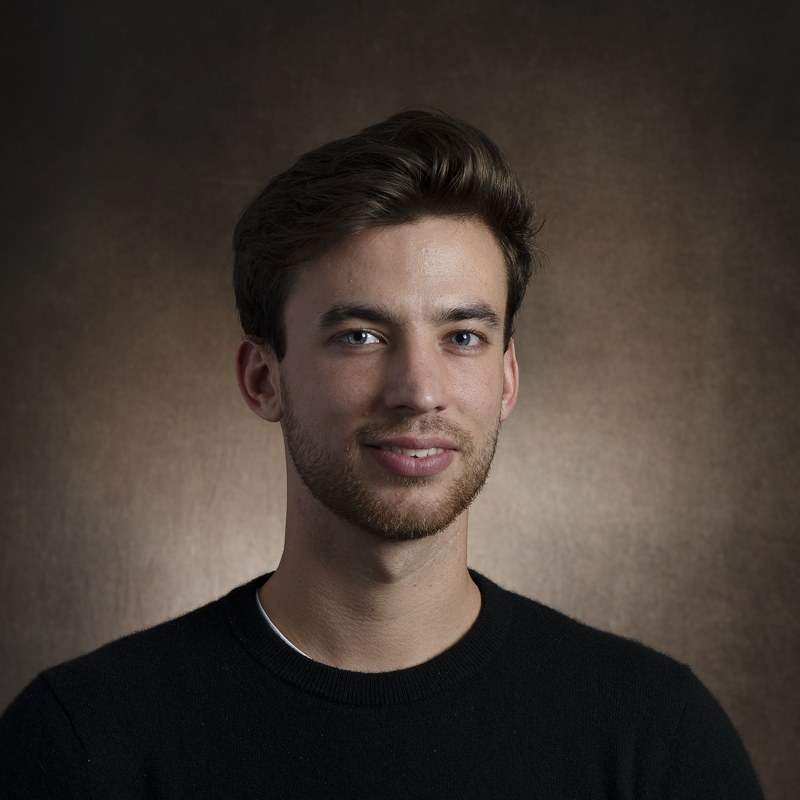
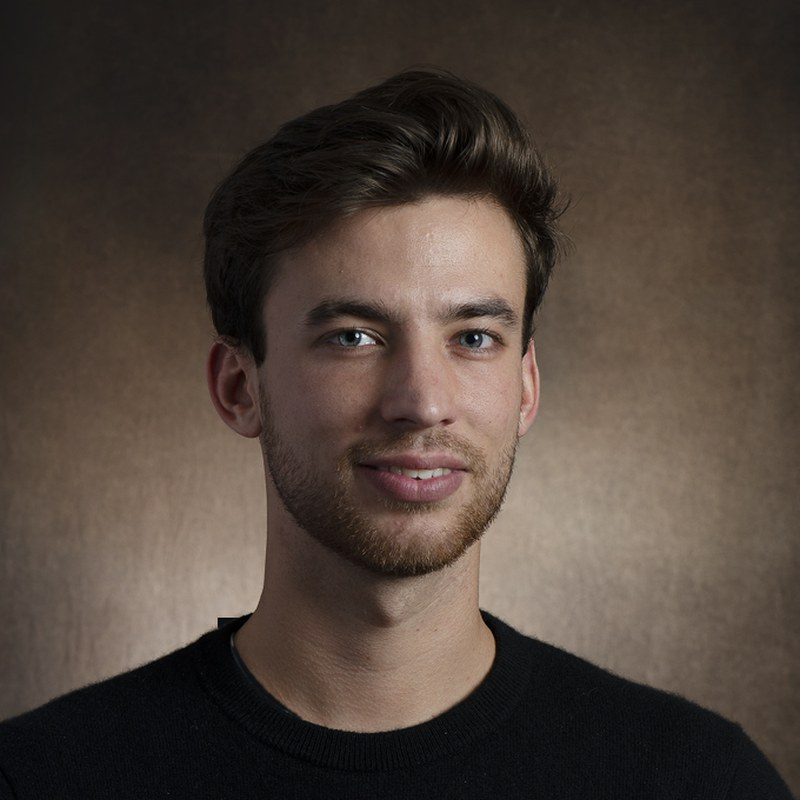
Portrait: tighter crop, collar retouch

Changed region(s): [[0.0, 0.0938, 1.0, 1.0], [0.8438, 0.2812, 0.875, 0.3125], [0.6875, 0.6562, 0.7188, 0.6875]]

diff --git a/index.html b/index.html
@@ -39,7 +39,7 @@
       <!-- TODO: add Google Scholar link once the profile exists -->
     </p>
   </div>
-  <img class="photo" src="img/photo.jpg?v=3" alt="Portrait of Marius Emanuel Hees">
+  <img class="photo" src="img/photo.jpg?v=4" alt="Portrait of Marius Emanuel Hees">
 </header>
 <hr>
 
